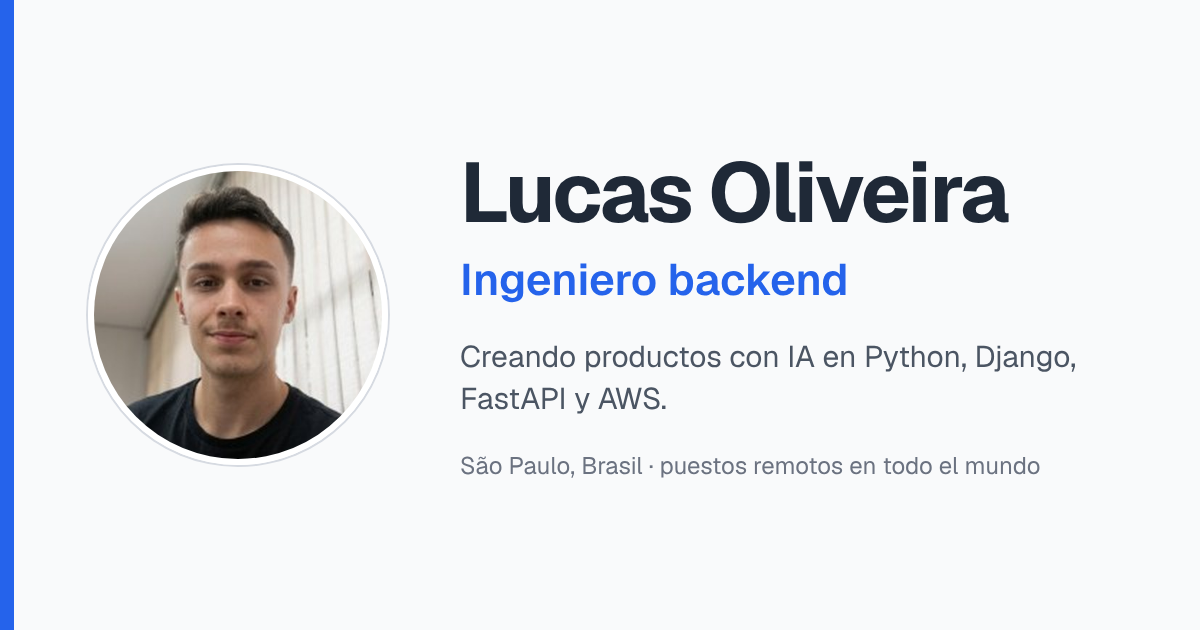
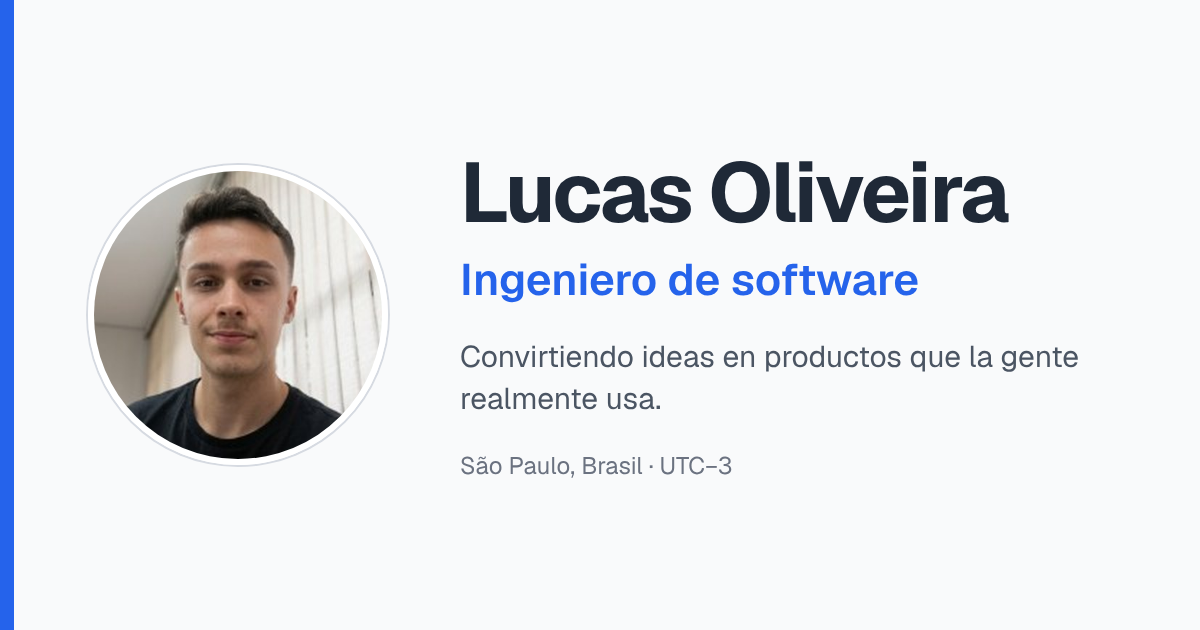
Site: position as software engineer, new hero text
The site now presents Lucas as a software engineer instead of a backend
engineer, and the hero paragraph talks about outcomes and contexts rather
than technologies. Updated in the 4 languages: hero role and text, profile
card, page titles and descriptions, JSON-LD jobTitle and the social images.

The resume keeps its own backend role and summary (cv.role, cv.lead).

Claude-Session: https://claude.ai/code/session_01P2cgKQt9ioWgfrz4rDMiEX

Changed region(s): [[0.37, 0.5429, 0.8942, 0.6635], [0.555, 0.4222, 0.7708, 0.4825], [0.555, 0.7238, 0.8633, 0.754]]

diff --git a/src/redesign/content/ja.ts b/src/redesign/content/ja.ts
@@ -1,12 +1,12 @@
 import type { Dictionary } from './types';
 
 export const ja: Dictionary = {
-  meta: { title: 'Lucas Oliveira — バックエンドエンジニア', description: 'サンパウロ在住のバックエンドエンジニア。Python、Django、FastAPI、AWSでAIプロダクトを開発しています。' },
+  meta: { title: 'Lucas Oliveira — ソフトウェアエンジニア', description: 'サンパウロ在住のソフトウェアエンジニア。Python、Django、FastAPI、React、AWSでAIプロダクトを開発しています。' },
   ui: { skip: '本文へスキップ', theme: 'カラーテーマを切り替える', language: '言語', top: 'トップへ戻る', current: '現在', problem: '課題', approach: '対応', result: '成果', source: 'ソースコードを見る' },
   nav: { work: '職歴', cases: '事例', services: 'サービス', skills: 'スタック', about: '自己紹介', contact: '連絡先', blog: 'ブログ' },
   hero: {
-    role: 'AIプロダクトを開発するバックエンドエンジニア。',
-    lead: '4年間、アイデアから本番運用までプロダクトを届けてきました。安全なAPI、クラウドインフラ、チームが信頼できるLLM機能が得意です。サンパウロを拠点に、海外のチームとリモートで働いています。',
+    role: 'AIプロダクトを開発するソフトウェアエンジニア。',
+    lead: 'アイデアを、人が実際に使うプロダクトに変え、既存のプロダクトをより良くするソフトウェアエンジニアです。スタートアップでも、大手コンサルティング会社でも、一人のチームでも、プロダクトを届けてきました。現在は、初期段階のスタートアップでAIプロダクトを開発しています。',
     location: 'ブラジル・サンパウロ（UTC−3）',
     place: 'ブラジル・サンパウロ · UTC−3 · リモート',
     email: '連絡する',
@@ -14,7 +14,7 @@ export const ja: Dictionary = {
     resume: '職務経歴書',
     stackTitle: '毎日使っている技術',
     stack: ['python', 'django', 'fastapi', 'aws', 'docker', 'postgresql', 'graphql', 'llm'],
-    card: { role: 'バックエンドエンジニア', location: 'ブラジル・サンパウロ', timezone: 'UTC-3', workMode: 'リモート' },
+    card: { role: 'ソフトウェアエンジニア', location: 'ブラジル・サンパウロ', timezone: 'UTC-3', workMode: 'リモート' },
   },
   work: {
     title: '職歴',
@@ -196,5 +196,5 @@ export const ja: Dictionary = {
     call: '30分の面談を予約',
     resume: '職務経歴書',
   },
-  cv: { back: 'サイトに戻る', download: 'PDFをダウンロード', print: '印刷', summary: '概要', experience: '職歴', skills: 'スキル', education: '学歴', languages: '言語' },
+  cv: { role: 'AIプロダクトを開発するバックエンドエンジニア。', lead: '4年間、アイデアから本番運用までプロダクトを届けてきました。安全なAPI、クラウドインフラ、チームが信頼できるLLM機能が得意です。サンパウロを拠点に、海外のチームとリモートで働いています。', back: 'サイトに戻る', download: 'PDFをダウンロード', print: '印刷', summary: '概要', experience: '職歴', skills: 'スキル', education: '学歴', languages: '言語' },
 };

diff --git a/src/redesign/content/es.ts b/src/redesign/content/es.ts
@@ -1,12 +1,12 @@
 import type { Dictionary } from './types';
 
 export const es: Dictionary = {
-  meta: { title: 'Lucas Oliveira — Ingeniero backend', description: 'Ingeniero backend en São Paulo que crea productos con IA usando Python, Django, FastAPI y AWS.' },
+  meta: { title: 'Lucas Oliveira — Ingeniero de software', description: 'Ingeniero de software en São Paulo que crea productos con IA usando Python, Django, FastAPI, React y AWS.' },
   ui: { skip: 'Ir al contenido', theme: 'Cambiar el tema de color', language: 'Idioma', top: 'Volver arriba', current: 'Actual', problem: 'Problema', approach: 'Qué hice', result: 'Resultado', source: 'Ver código fuente' },
   nav: { work: 'Experiencia', cases: 'Casos de estudio', services: 'Servicios', skills: 'Stack', about: 'Sobre mí', contact: 'Contacto', blog: 'Blog' },
   hero: {
-    role: 'Ingeniero backend que crea productos con IA.',
-    lead: 'Llevo 4 años llevando productos de la idea a producción: APIs seguras, infraestructura en la nube y funciones con LLM en las que los equipos pueden confiar. Vivo en São Paulo y trabajo en remoto con equipos internacionales.',
+    role: 'Ingeniero de software que crea productos con IA.',
+    lead: 'Ingeniero de software que convierte ideas en productos que la gente realmente usa y mejora los que ya existen. He entregado en startups, en grandes consultoras y en equipos de una sola persona. Hoy construyo productos de IA en una startup en etapa inicial.',
     location: 'São Paulo, Brasil (UTC−3)',
     place: 'São Paulo, Brasil · UTC−3 · Remoto',
     email: 'Contáctame',
@@ -14,7 +14,7 @@ export const es: Dictionary = {
     resume: 'Currículum',
     stackTitle: 'Lo que uso todos los días',
     stack: ['python', 'django', 'fastapi', 'aws', 'docker', 'postgresql', 'graphql', 'llm'],
-    card: { role: 'Ingeniero backend', location: 'São Paulo, Brasil', timezone: 'UTC-3', workMode: 'remoto' },
+    card: { role: 'Ingeniero de software', location: 'São Paulo, Brasil', timezone: 'UTC-3', workMode: 'remoto' },
   },
   work: {
     title: 'Dónde he trabajado',
@@ -196,5 +196,5 @@ export const es: Dictionary = {
     call: 'Reserva una llamada de 30 minutos',
     resume: 'Currículum',
   },
-  cv: { back: 'Volver al sitio', download: 'Descargar PDF', print: 'Imprimir', summary: 'Resumen', experience: 'Experiencia', skills: 'Habilidades', education: 'Formación', languages: 'Idiomas' },
+  cv: { role: 'Ingeniero backend que crea productos con IA.', lead: 'Llevo 4 años llevando productos de la idea a producción: APIs seguras, infraestructura en la nube y funciones con LLM en las que los equipos pueden confiar. Vivo en São Paulo y trabajo en remoto con equipos internacionales.', back: 'Volver al sitio', download: 'Descargar PDF', print: 'Imprimir', summary: 'Resumen', experience: 'Experiencia', skills: 'Habilidades', education: 'Formación', languages: 'Idiomas' },
 };

diff --git a/src/redesign/content/pt.ts b/src/redesign/content/pt.ts
@@ -1,12 +1,12 @@
 import type { Dictionary } from './types';
 
 export const pt: Dictionary = {
-  meta: { title: 'Lucas Oliveira — Engenheiro backend', description: 'Engenheiro backend em São Paulo criando produtos com IA em Python, Django, FastAPI e AWS.' },
+  meta: { title: 'Lucas Oliveira — Engenheiro de software', description: 'Engenheiro de software em São Paulo criando produtos com IA em Python, Django, FastAPI, React e AWS.' },
   ui: { skip: 'Ir para o conteúdo', theme: 'Alternar tema de cores', language: 'Idioma', top: 'Voltar ao topo', current: 'Atual', problem: 'Problema', approach: 'O que fiz', result: 'Resultado', source: 'Ver código-fonte' },
   nav: { work: 'Trabalho', cases: 'Cases', services: 'Serviços', skills: 'Stack', about: 'Sobre', contact: 'Contato', blog: 'Blog' },
   hero: {
-    role: 'Engenheiro backend criando produtos com IA.',
-    lead: 'Há 4 anos levo produtos da ideia à produção: APIs seguras, infraestrutura em nuvem e recursos com LLMs em que o time pode confiar. Moro em São Paulo e trabalho remoto.',
+    role: 'Engenheiro de software criando produtos com IA.',
+    lead: 'Engenheiro de software que transforma ideias em produtos que as pessoas realmente usam e melhora os que já existem. Já entreguei em startups, em grandes consultorias e em times de uma pessoa só. Hoje construo produtos de IA em uma startup em fase inicial.',
     location: 'São Paulo, Brasil (UTC−3)',
     place: 'São Paulo, Brasil · UTC−3 · Remoto',
     email: 'Fale comigo',
@@ -14,7 +14,7 @@ export const pt: Dictionary = {
     resume: 'Currículo',
     stackTitle: 'O que uso todos os dias',
     stack: ['python', 'django', 'fastapi', 'aws', 'docker', 'postgresql', 'graphql', 'llm'],
-    card: { role: 'Engenheiro backend', location: 'São Paulo, Brasil', timezone: 'UTC-3', workMode: 'remoto' },
+    card: { role: 'Engenheiro de software', location: 'São Paulo, Brasil', timezone: 'UTC-3', workMode: 'remoto' },
   },
   work: {
     title: 'Onde já trabalhei',
@@ -196,5 +196,5 @@ export const pt: Dictionary = {
     call: 'Agendar uma conversa de 30 minutos',
     resume: 'Currículo',
   },
-  cv: { back: 'Voltar ao site', download: 'Baixar PDF', print: 'Imprimir', summary: 'Resumo', experience: 'Experiência', skills: 'Competências', education: 'Formação', languages: 'Idiomas' },
+  cv: { role: 'Engenheiro backend criando produtos com IA.', lead: 'Há 4 anos levo produtos da ideia à produção: APIs seguras, infraestrutura em nuvem e recursos com LLMs em que o time pode confiar. Moro em São Paulo e trabalho remoto.', back: 'Voltar ao site', download: 'Baixar PDF', print: 'Imprimir', summary: 'Resumo', experience: 'Experiência', skills: 'Competências', education: 'Formação', languages: 'Idiomas' },
 };

diff --git a/src/redesign/content/en.ts b/src/redesign/content/en.ts
@@ -1,12 +1,12 @@
 import type { Dictionary } from './types';
 
 export const en: Dictionary = {
-  meta: { title: 'Lucas Oliveira — Backend engineer', description: 'Backend engineer in São Paulo building AI-powered products with Python, Django, FastAPI and AWS.' },
+  meta: { title: 'Lucas Oliveira — Software engineer', description: 'Software engineer in São Paulo building AI-powered products with Python, Django, FastAPI, React and AWS.' },
   ui: { skip: 'Skip to content', theme: 'Toggle color theme', language: 'Language', top: 'Back to top', current: 'Current', problem: 'Problem', approach: 'What I did', result: 'Result', source: 'View source' },
   nav: { work: 'Work', cases: 'Case studies', services: 'Services', skills: 'Stack', about: 'About', contact: 'Contact', blog: 'Blog' },
   hero: {
-    role: 'Backend engineer building AI-powered products.',
-    lead: 'I have spent 4 years taking products from idea to production: secure APIs, cloud infrastructure and LLM features that teams can rely on. Based in São Paulo, working remotely with international teams.',
+    role: 'Software engineer building AI-powered products.',
+    lead: 'Software engineer who turns ideas into products people actually use, and makes existing ones better. I’ve shipped in startups, in large consultancies and in teams of one. Currently building AI products at an early-stage startup.',
     location: 'São Paulo, Brazil (UTC−3)',
     place: 'São Paulo, Brazil · UTC−3 · Remote',
     email: 'Contact me',
@@ -14,7 +14,7 @@ export const en: Dictionary = {
     resume: 'Resume',
     stackTitle: 'What I reach for every day',
     stack: ['python', 'django', 'fastapi', 'aws', 'docker', 'postgresql', 'graphql', 'llm'],
-    card: { role: 'Backend engineer', location: 'São Paulo, Brazil', timezone: 'UTC-3', workMode: 'remote' },
+    card: { role: 'Software engineer', location: 'São Paulo, Brazil', timezone: 'UTC-3', workMode: 'remote' },
   },
   work: {
     title: 'Where I’ve worked',
@@ -196,5 +196,5 @@ export const en: Dictionary = {
     call: 'Book a 30-minute intro call',
     resume: 'Resume',
   },
-  cv: { back: 'Back to site', download: 'Download PDF', print: 'Print', summary: 'Summary', experience: 'Experience', skills: 'Skills', education: 'Education', languages: 'Languages' },
+  cv: { role: 'Backend engineer building AI-powered products.', lead: 'I have spent 4 years taking products from idea to production: secure APIs, cloud infrastructure and LLM features that teams can rely on. Based in São Paulo, working remotely with international teams.', back: 'Back to site', download: 'Download PDF', print: 'Print', summary: 'Summary', experience: 'Experience', skills: 'Skills', education: 'Education', languages: 'Languages' },
 };

diff --git a/src/redesign/content/types.ts b/src/redesign/content/types.ts
@@ -94,5 +94,5 @@ export interface Dictionary {
     github: { heatmap: string; heatmapDay: string; title: string; repos: string; stars: string; languages: string; lastPush: string; profile: string };
   };
   contact: { title: string; intro: string; whatsapp: string; call: string; resume: string };
-  cv: { back: string; download: string; print: string; summary: string; experience: string; skills: string; education: string; languages: string };
+  cv: { role: string; lead: string; back: string; download: string; print: string; summary: string; experience: string; skills: string; education: string; languages: string };
 }

diff --git a/src/redesign/components/CvDocument.tsx b/src/redesign/components/CvDocument.tsx
@@ -18,7 +18,7 @@ export function CvDocument({ t }: { t: Dictionary }) {
     <article className="cv">
       <header>
         <h1 className="cv-name">{SITE.name}</h1>
-        <p className="cv-role">{hero.role}</p>
+        <p className="cv-role">{cv.role}</p>
         <p className="cv-contact">
           <span>{hero.location}</span>
           <CvEmail />
@@ -29,7 +29,7 @@ export function CvDocument({ t }: { t: Dictionary }) {
 
       <section>
         <Heading>{cv.summary}</Heading>
-        <p>{hero.lead}</p>
+        <p>{cv.lead}</p>
       </section>
 
       <section>

diff --git a/src/redesign/seo.ts b/src/redesign/seo.ts
@@ -5,10 +5,10 @@ import { HTML_LANG, LOCALES, type Locale } from './content/locales';
 
 const OG_LOCALE: Record<Locale, string> = { en: 'en_US', pt: 'pt_BR', es: 'es_ES', ja: 'ja_JP' };
 const JOB_TITLE: Record<Locale, string> = {
-  en: 'Backend engineer',
-  pt: 'Engenheiro de backend',
-  es: 'Ingeniero de backend',
-  ja: 'バックエンドエンジニア',
+  en: 'Software engineer',
+  pt: 'Engenheiro de software',
+  es: 'Ingeniero de software',
+  ja: 'ソフトウェアエンジニア',
 };
 
 interface PageOptions {
